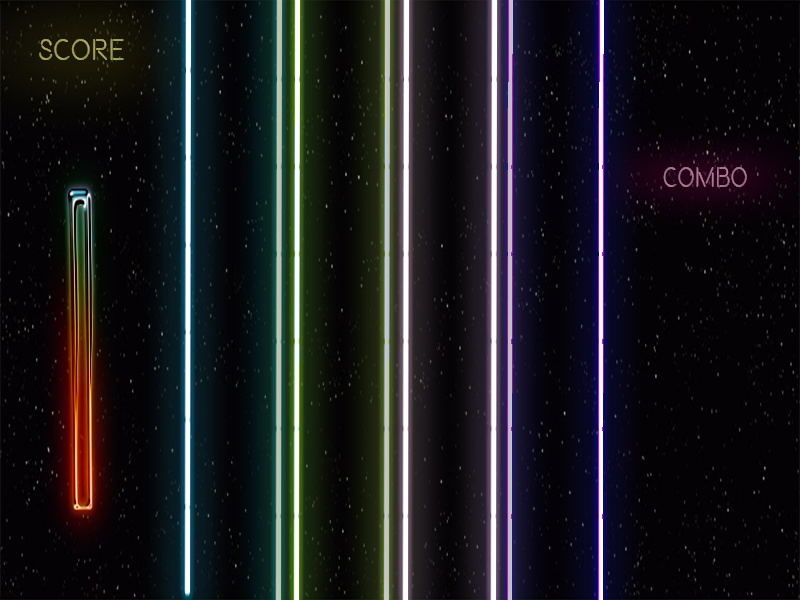
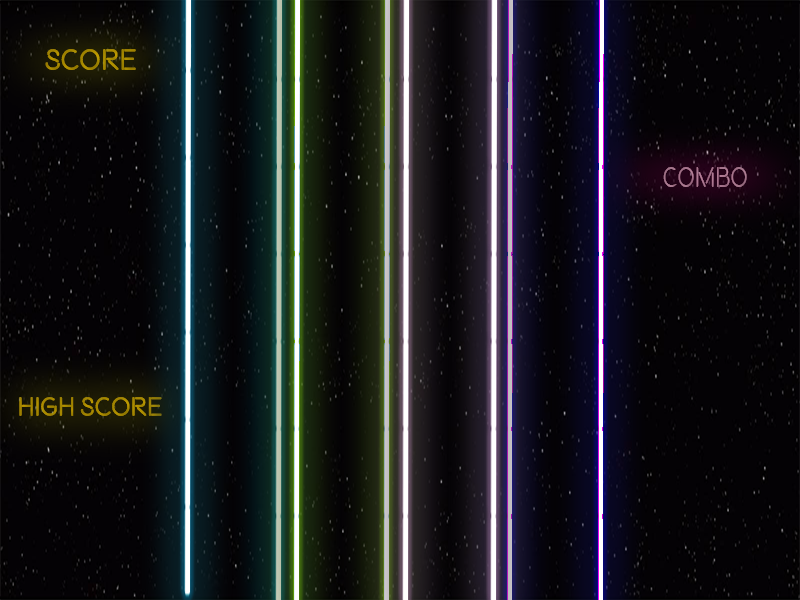
new playbg and path for everyone na ja

Changed region(s): [[0.0, 0.3, 0.2188, 0.9], [0.0312, 0.06, 0.1875, 0.12]]

diff --git a/src/taptap/Play.java b/src/taptap/Play.java
@@ -45,8 +45,7 @@ public class Play implements EventHandler<KeyEvent> {
     Image Imgpurple2;
 
     ImageView bg;
-    ImageView pause;
-    ImageView LifeLine;
+    ImageView pause;   
     ImageView ivblue;
     ImageView ivgreen;
     ImageView ivpink;
@@ -70,8 +69,7 @@ public class Play implements EventHandler<KeyEvent> {
         Pane game = new Pane();
         Path gameScreenPath = Paths.get(currentPath.toString(), "Image", "basicBg.png");
         Path pause1Path = Paths.get(currentPath.toString(), "Image", "pause1.png");
-        Path pause2Path = Paths.get(currentPath.toString(), "Image", "pause2.png");
-        Path lifelinePath = Paths.get(currentPath.toString(), "Image", "LifeLine.png");
+        Path pause2Path = Paths.get(currentPath.toString(), "Image", "pause2.png");    
         Path blue1Path = Paths.get(currentPath.toString(), "Image", "blue1.png");
         Path blue2Path = Paths.get(currentPath.toString(), "Image", "blue2.png");
         Path green1Path = Paths.get(currentPath.toString(), "Image", "green1.png");
@@ -83,8 +81,7 @@ public class Play implements EventHandler<KeyEvent> {
 
         InputStream input = Files.newInputStream(Paths.get(gameScreenPath.toString()));
         InputStream pause1 = Files.newInputStream(Paths.get(pause1Path.toString()));
-        InputStream pause2 = Files.newInputStream(Paths.get(pause2Path.toString()));
-        InputStream lifeline = Files.newInputStream(Paths.get(lifelinePath.toString()));
+        InputStream pause2 = Files.newInputStream(Paths.get(pause2Path.toString()));    
         InputStream blue1 = Files.newInputStream(Paths.get(blue1Path.toString()));
         InputStream blue2 = Files.newInputStream(Paths.get(blue2Path.toString()));
         InputStream green1 = Files.newInputStream(Paths.get(green1Path.toString()));
@@ -97,7 +94,7 @@ public class Play implements EventHandler<KeyEvent> {
         Image BgImg = new Image(input);
         Image pause1Img = new Image(pause1);
         Image pause2Img = new Image(pause2);
-        Image LifeLineImg = new Image(lifeline);
+        
 
         ArrayList<Ball> ballList = new ArrayList();
         ArrayList<TranslateTransition> transList = new ArrayList();
@@ -112,15 +109,13 @@ public class Play implements EventHandler<KeyEvent> {
         Imgpurple2 = new Image(purple2);
 
         bg = new ImageView(BgImg);
-        pause = new ImageView(pause1Img);
-        LifeLine = new ImageView(LifeLineImg);
+        pause = new ImageView(pause1Img);    
         ivblue = new ImageView(Imgblue1);
         ivgreen = new ImageView(Imggreen1);
         ivpink = new ImageView(Imgpink1);
         ivpurple = new ImageView(Imgpurple1);
 
-        LifeLine.setX(53);
-        LifeLine.setY(320);
+       
 
         pause.setX(680);
         pause.setY(30);
@@ -135,7 +130,12 @@ public class Play implements EventHandler<KeyEvent> {
         ivpurple.setY(490);
 
         // get location positions
-        connect1 = DriverManager.getConnection("jdbc:ucanaccess://C://Users//Mac//Desktop//crazyTap//tapNodes.accdb");
+        //nat's path
+        connect1 = DriverManager.getConnection("jdbc:ucanaccess:///Users/macintoshhd/Desktop/crazyTap/tapNodes.accdb");
+        //fon's path
+        //connect1 = DriverManager.getConnection("jdbc:ucanaccess://C://Users//Mac//Desktop//crazyTap//tapNodes.accdb");
+        //kk's path
+        //connect1 = DriverManager.getConnection("jdbc:ucanaccess://C://Users//Macbook Pro//Documents/tapNodes.accdb");
         stat1 = connect1.createStatement();
         rs = stat1.executeQuery("select time, col1, col2, col3,col4 from book");
         while (rs.next()) {
@@ -286,54 +286,7 @@ public class Play implements EventHandler<KeyEvent> {
             }
         });
 
-//        if (arrayPos1.get(songDuration) == 1) {
-//            //tt1.play();
-//
-//            Ball temp = new Ball("blue");
-//            ImageView iv = temp.getBall();
-//            TranslateTransition tt = new TranslateTransition(Duration.millis(2000), iv);
-//            tt.setByY(600);
-//            tt.setDelay(Duration.seconds(songDuration));
-//            tt.play();
-//
-//            transList.add(tt);
-//            ballList.add(temp);
-//            System.out.println("1");
-//        } else if (arrayPos2.get(songDuration) == 1) {
-//            Ball temp = new Ball("green");
-//            ImageView iv = temp.getBall();
-//            TranslateTransition tt = new TranslateTransition(Duration.millis(2000), iv);
-//            tt.setByY(600);
-//            tt.setDelay(Duration.millis(songDuration));
-//            tt.play();
-//
-//            transList.add(tt);
-//            ballList.add(temp);
-//            System.out.println("2");
-//        } else if (arrayPos3.get(songDuration) == 1) {
-//            Ball temp = new Ball("pink");
-//            ImageView iv = temp.getBall();
-//            TranslateTransition tt = new TranslateTransition(Duration.millis(2000), iv);
-//            tt.setByY(600);
-//            tt.setDelay(Duration.millis(songDuration));
-//            tt.play();
-//
-//            transList.add(tt);
-//            ballList.add(temp);
-//            System.out.println("3");
-//        } else if (arrayPos4.get(songDuration) == 1) {
-//            Ball temp = new Ball("purple");
-//            ImageView iv = temp.getBall();
-//            TranslateTransition tt = new TranslateTransition(Duration.millis(2000), iv);
-//            tt.setByY(600);
-//            tt.setDelay(Duration.millis(songDuration));
-//            tt.play();
-//
-//            transList.add(tt);
-//            ballList.add(temp);
-//            System.out.println("4");
-//        }
-        game.getChildren().addAll(textBox, bg, pause, LifeLine);
+        game.getChildren().addAll(textBox, bg, pause);
         for (int i = 0; i < ballList.size(); i++) {
             game.getChildren().add(ballList.get(i).getBall());
             System.out.println("getbb");
